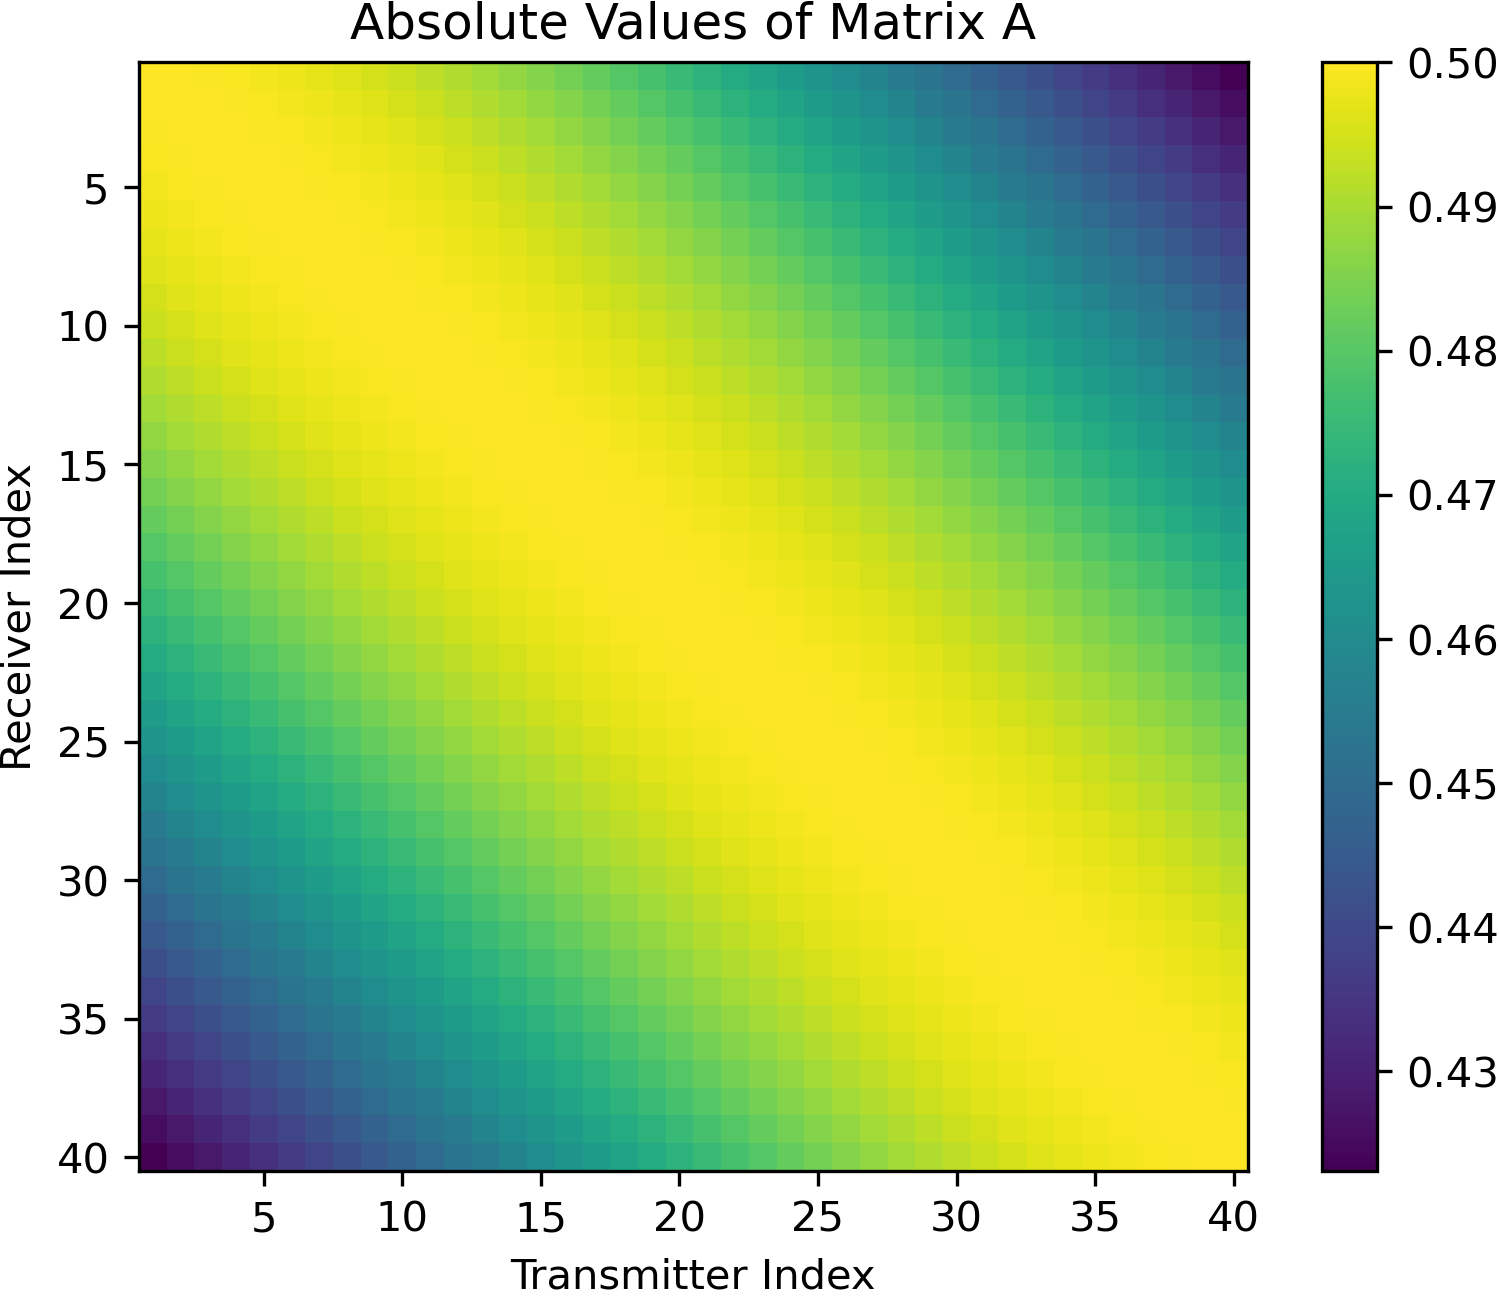
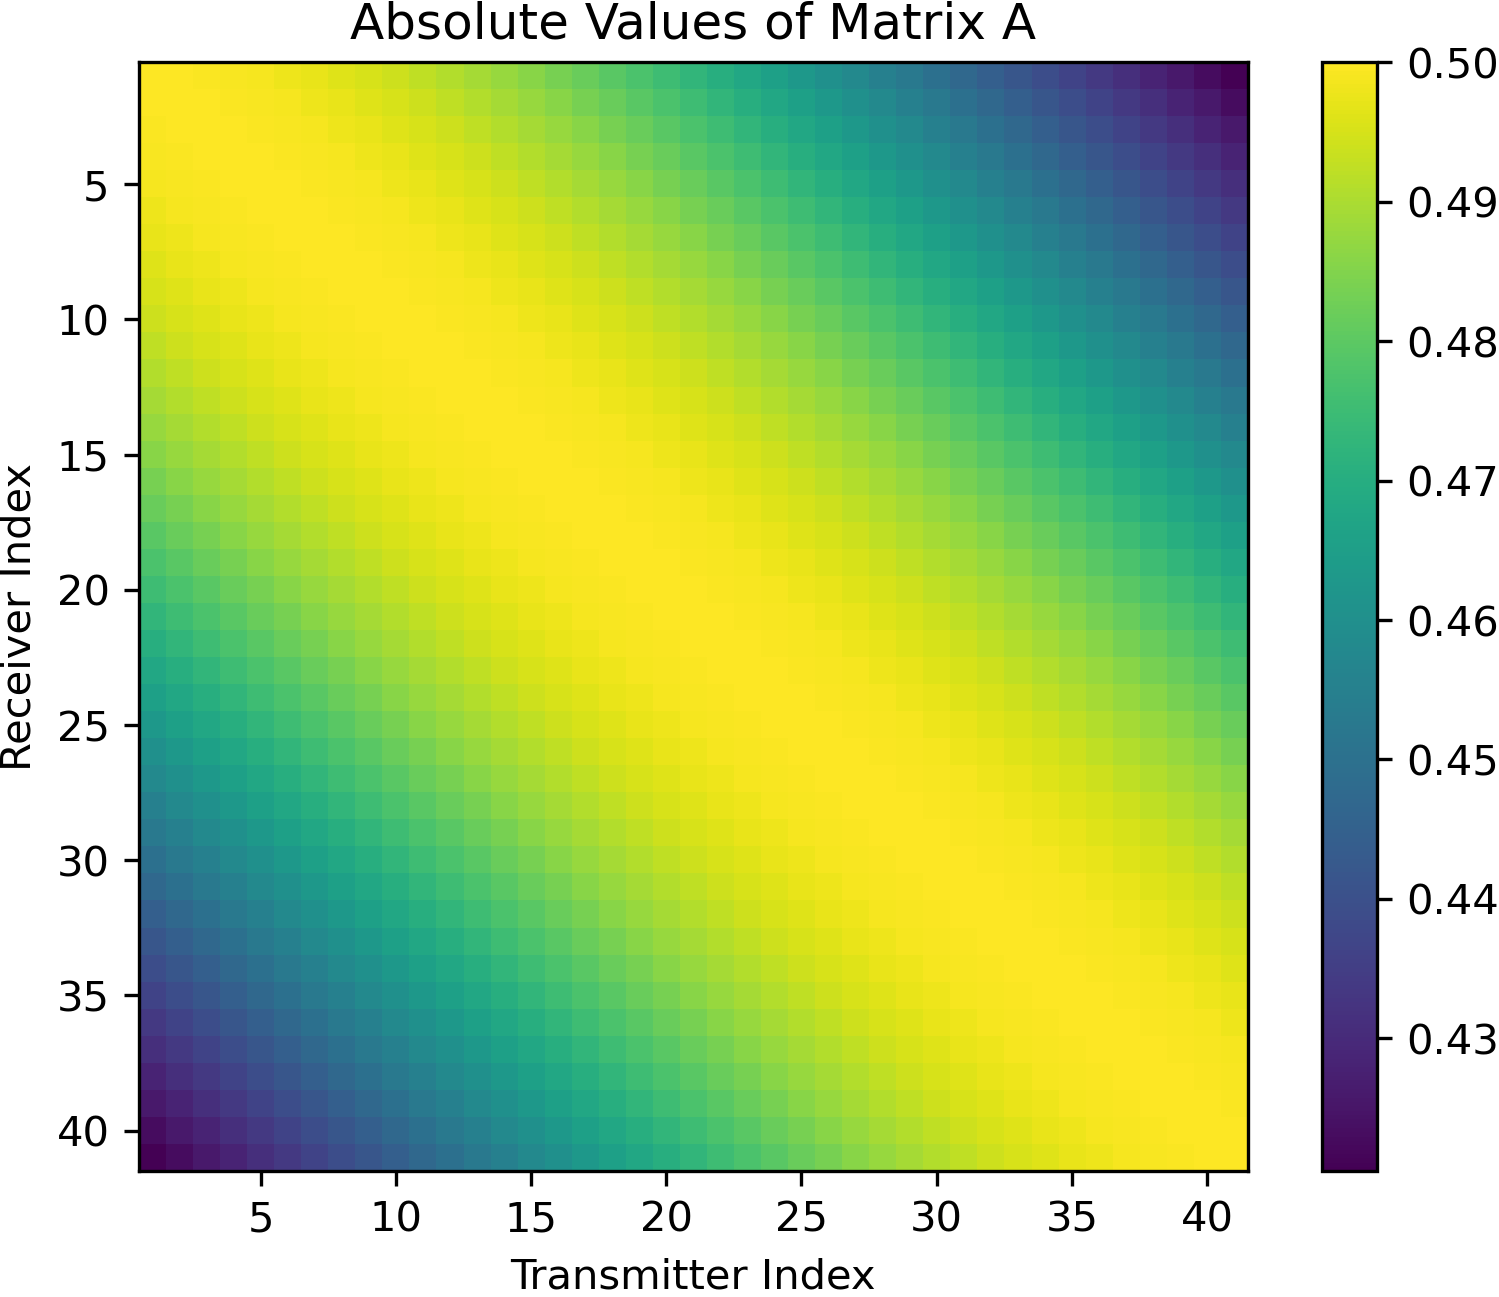
fixed N results of part1

diff --git a/part1/part1.py b/part1/part1.py
@@ -75,10 +75,14 @@ def plot_fit_rank(threshold, save=False, log=False):
     plt.grid(True, which="both", ls="-", alpha=0.5)
     if save:
         plt.savefig(f'part1_b_rank_{threshold[2:]}.png', dpi=300, bbox_inches='tight', pad_inches=0)
+    if show:
+        plt.show()
+    plt.close()
 
 
 if __name__ == '__main__':
-    sections = ['b']  # Possible sections: 'a', 'b', 'c', 'd'
+    sections = ['a', 'b']  # Possible sections: 'a', 'b'
+    show = False
     save = True
     for section in sections:
         if section == 'a':
@@ -97,28 +101,32 @@ if __name__ == '__main__':
 
             # Plot Matrix A
             plt.imshow(np.abs(A))
-            x_ticks = np.arange(0, len(A)+1, 5)[1:]-1
-            y_ticks = np.arange(0, len(A)+1, 5)[1:]-1
-            plt.xticks(x_ticks, labels=x_ticks+1)
-            plt.yticks(y_ticks, labels=y_ticks+1)
+            x_ticks = np.arange(0, len(A)+1, 5)[1:]
+            y_ticks = np.arange(0, len(A)+1, 5)[1:]
+            plt.xticks(x_ticks-1, labels=x_ticks)
+            plt.yticks(y_ticks-1, labels=y_ticks)
             plt.colorbar()
             plt.title('Absolute Values of Matrix A')
             plt.xlabel('Transmitter Index')
             plt.ylabel('Receiver Index')
-            plt.savefig(r'ex1_a_constructA.png', dpi=300, bbox_inches='tight', pad_inches=0)
-            plt.show()
+            plt.savefig(r'part1_a_constructA.png', dpi=300, bbox_inches='tight', pad_inches=0)
+            if show:
+                plt.show()
+            plt.close()
 
             # Plot Matrix A Singular Values
             s_values, _, _, _ = compute_SVD(A)
             info('Section A: SVD has been calculated')
-            plt.scatter(np.arange(len(s_values)), s_values)
+            plt.scatter(np.arange(len(s_values)) + 1, s_values)
             plt.yscale('log')  # Set y-axis to log scale
             plt.grid(True, which='both', linestyle='--', linewidth=0.5)  # Add grid
             plt.title('Singular Values of Matrix A')
             plt.xlabel('Transmitter Index')
             plt.ylabel('Singular Values')
-            plt.savefig(r'ex1_a_svdA_log.png', dpi=300, bbox_inches='tight', pad_inches=0)
-            plt.show()
+            plt.savefig(r'part1_a_svdA_log.png', dpi=300, bbox_inches='tight', pad_inches=0)
+            if show:
+                plt.show()
+            plt.close()
 
         ## TODO: add proper asymptotic lines to figures
         if section == 'b':
@@ -175,7 +183,8 @@ if __name__ == '__main__':
             plt.grid(True, which="both", ls="-", alpha=0.5)
             if save:
                 plt.savefig('part1_b_svd_complexity.png', dpi=300, bbox_inches='tight', pad_inches=0)
-            plt.show()
+            if show:
+                plt.show()
             plt.close()
 
             for case, data in results.items():
@@ -190,7 +199,8 @@ if __name__ == '__main__':
             plt.grid(True, which="both", ls="-", alpha=0.5)
             if save:
                 plt.savefig('part1_b_rank_log.png', dpi=300, bbox_inches='tight', pad_inches=0)
-            plt.show()
+            if show:
+                plt.show()
             plt.close()
 
             plot_fit_rank(threshold='τ=1e-2', save=save, log=True)
@@ -212,5 +222,6 @@ if __name__ == '__main__':
                 plt.subplots_adjust(left=0.3)
             if save:
                 plt.savefig(f'part1_b_condition_all_log.png', dpi=300, bbox_inches='tight', pad_inches=0)
-            plt.show()
+            if show:
+                plt.show()
             plt.close()
